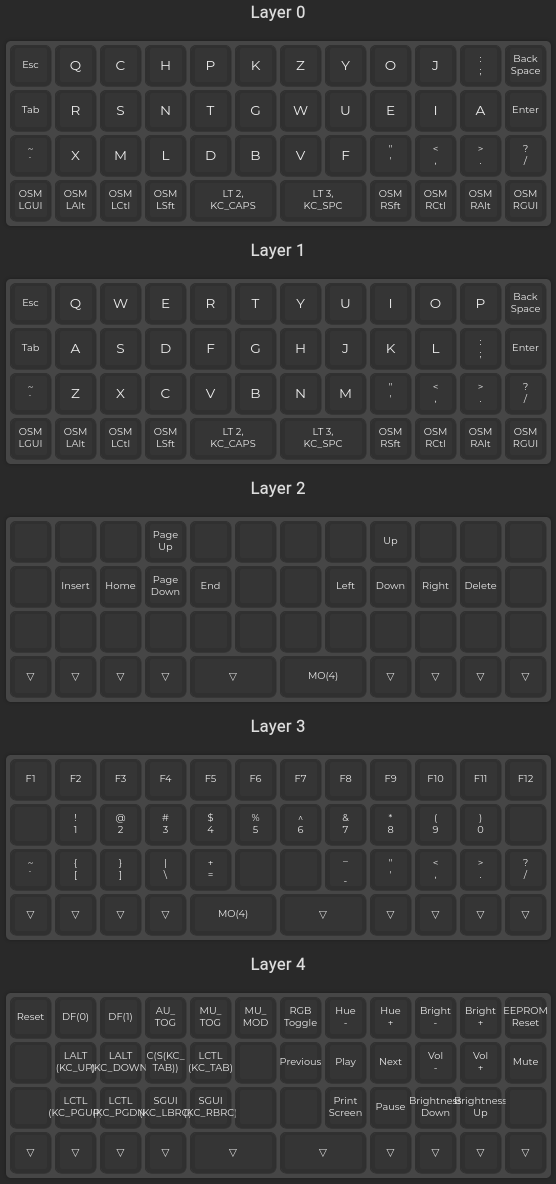
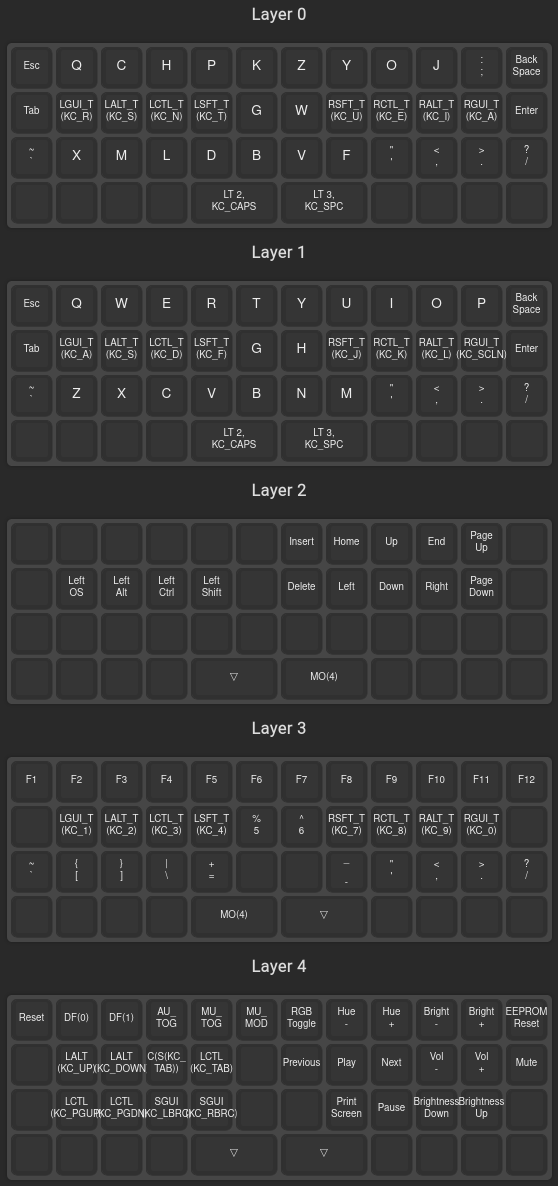
Homerow mods and short layout

diff --git a/keymap.c b/keymap.c
@@ -7,9 +7,9 @@
  */
 
 const uint16_t PROGMEM keymaps[][MATRIX_ROWS][MATRIX_COLS] = {
-	[0] = LAYOUT_planck_2x2u(KC_ESC, KC_Q, KC_C, KC_H, KC_P, KC_K, KC_Z, KC_Y, KC_O, KC_J, KC_SCLN, KC_BSPC, KC_TAB, KC_R, KC_S, KC_N, KC_T, KC_G, KC_W, KC_U, KC_E, KC_I, KC_A, KC_ENT, KC_GRV, KC_X, KC_M, KC_L, KC_D, KC_B, KC_V, KC_F, KC_QUOT, KC_COMM, KC_DOT, KC_SLSH, OSM(MOD_LGUI), OSM(MOD_LALT), OSM(MOD_LCTL), OSM(MOD_LSFT), LT(2,KC_CAPS), LT(3,KC_SPC), OSM(MOD_RSFT), OSM(MOD_RCTL), OSM(MOD_RALT), OSM(MOD_RGUI)),
-	[1] = LAYOUT_planck_2x2u(KC_ESC, KC_Q, KC_W, KC_E, KC_R, KC_T, KC_Y, KC_U, KC_I, KC_O, KC_P, KC_BSPC, KC_TAB, KC_A, KC_S, KC_D, KC_F, KC_G, KC_H, KC_J, KC_K, KC_L, KC_SCLN, KC_ENT, KC_GRV, KC_Z, KC_X, KC_C, KC_V, KC_B, KC_N, KC_M, KC_QUOT, KC_COMM, KC_DOT, KC_SLSH, OSM(MOD_LGUI), OSM(MOD_LALT), OSM(MOD_LCTL), OSM(MOD_LSFT), LT(2,KC_CAPS), LT(3,KC_SPC), OSM(MOD_RSFT), OSM(MOD_RCTL), OSM(MOD_RALT), OSM(MOD_RGUI)),
-	[2] = LAYOUT_planck_2x2u(KC_NO, KC_NO, KC_NO, KC_PGUP, KC_NO, KC_NO, KC_NO, KC_NO, KC_UP, KC_NO, KC_NO, KC_NO, KC_NO, KC_INS, KC_HOME, KC_PGDN, KC_END, KC_NO, KC_NO, KC_LEFT, KC_DOWN, KC_RGHT, KC_DEL, KC_NO, KC_NO, KC_NO, KC_NO, KC_NO, KC_NO, KC_NO, KC_NO, KC_NO, KC_NO, KC_NO, KC_NO, KC_NO, KC_TRNS, KC_TRNS, KC_TRNS, KC_TRNS, KC_TRNS, MO(4), KC_TRNS, KC_TRNS, KC_TRNS, KC_TRNS),
-	[3] = LAYOUT_planck_2x2u(KC_F1, KC_F2, KC_F3, KC_F4, KC_F5, KC_F6, KC_F7, KC_F8, KC_F9, KC_F10, KC_F11, KC_F12, KC_NO, KC_1, KC_2, KC_3, KC_4, KC_5, KC_6, KC_7, KC_8, KC_9, KC_0, KC_NO, KC_GRV, KC_LBRC, KC_RBRC, KC_BSLS, KC_EQL, KC_NO, KC_NO, KC_MINS, KC_QUOT, KC_COMM, KC_DOT, KC_SLSH, KC_TRNS, KC_TRNS, KC_TRNS, KC_TRNS, MO(4), KC_TRNS, KC_TRNS, KC_TRNS, KC_TRNS, KC_TRNS),
-	[4] = LAYOUT_planck_2x2u(RESET, DF(0), DF(1), AU_TOG, MU_TOG, MU_MOD, RGB_TOG, RGB_HUD, RGB_HUI, RGB_VAD, RGB_VAI, EEP_RST, KC_NO, LALT(KC_UP), LALT(KC_DOWN), C(S(KC_TAB)), LCTL(KC_TAB), KC_NO, KC_MPRV, KC_MPLY, KC_MNXT, KC_VOLD, KC_VOLU, KC_MUTE, KC_NO, LCTL(KC_PGUP), LCTL(KC_PGDN), SGUI(KC_LBRC), SGUI(KC_RBRC), KC_NO, KC_NO, KC_PSCR, KC_PAUS, KC_BRID, KC_BRIU, KC_NO, KC_TRNS, KC_TRNS, KC_TRNS, KC_TRNS, KC_TRNS, KC_TRNS, KC_TRNS, KC_TRNS, KC_TRNS, KC_TRNS)
+	[0] = LAYOUT_planck_2x2u(KC_ESC, KC_Q, KC_C, KC_H, KC_P, KC_K, KC_Z, KC_Y, KC_O, KC_J, KC_SCLN, KC_BSPC, KC_TAB, LGUI_T(KC_R), LALT_T(KC_S), LCTL_T(KC_N), LSFT_T(KC_T), KC_G, KC_W, RSFT_T(KC_U), RCTL_T(KC_E), RALT_T(KC_I), RGUI_T(KC_A), KC_ENT, KC_GRV, KC_X, KC_M, KC_L, KC_D, KC_B, KC_V, KC_F, KC_QUOT, KC_COMM, KC_DOT, KC_SLSH, KC_NO, KC_NO, KC_NO, KC_NO, LT(2,KC_CAPS), LT(3,KC_SPC), KC_NO, KC_NO, KC_NO, KC_NO),
+	[1] = LAYOUT_planck_2x2u(KC_ESC, KC_Q, KC_W, KC_E, KC_R, KC_T, KC_Y, KC_U, KC_I, KC_O, KC_P, KC_BSPC, KC_TAB, LGUI_T(KC_A), LALT_T(KC_S), LCTL_T(KC_D), LSFT_T(KC_F), KC_G, KC_H, RSFT_T(KC_J), RCTL_T(KC_K), RALT_T(KC_L), RGUI_T(KC_SCLN), KC_ENT, KC_GRV, KC_Z, KC_X, KC_C, KC_V, KC_B, KC_N, KC_M, KC_QUOT, KC_COMM, KC_DOT, KC_SLSH, KC_NO, KC_NO, KC_NO, KC_NO, LT(2,KC_CAPS), LT(3,KC_SPC), KC_NO, KC_NO, KC_NO, KC_NO),
+	[2] = LAYOUT_planck_2x2u(KC_NO, KC_NO, KC_NO, KC_NO, KC_NO, KC_NO, KC_INS, KC_HOME, KC_UP, KC_END, KC_PGUP, KC_NO, KC_NO, KC_LGUI, KC_LALT, KC_LCTL, KC_LSFT, KC_NO, KC_DEL, KC_LEFT, KC_DOWN, KC_RGHT, KC_PGDN, KC_NO, KC_NO, KC_NO, KC_NO, KC_NO, KC_NO, KC_NO, KC_NO, KC_NO, KC_NO, KC_NO, KC_NO, KC_NO, KC_NO, KC_NO, KC_NO, KC_NO, KC_TRNS, MO(4), KC_NO, KC_NO, KC_NO, KC_NO),
+	[3] = LAYOUT_planck_2x2u(KC_F1, KC_F2, KC_F3, KC_F4, KC_F5, KC_F6, KC_F7, KC_F8, KC_F9, KC_F10, KC_F11, KC_F12, KC_NO, LGUI_T(KC_1), LALT_T(KC_2), LCTL_T(KC_3), LSFT_T(KC_4), KC_5, KC_6, RSFT_T(KC_7), RCTL_T(KC_8), RALT_T(KC_9), RGUI_T(KC_0), KC_NO, KC_GRV, KC_LBRC, KC_RBRC, KC_BSLS, KC_EQL, KC_NO, KC_NO, KC_MINS, KC_QUOT, KC_COMM, KC_DOT, KC_SLSH, KC_NO, KC_NO, KC_NO, KC_NO, MO(4), KC_TRNS, KC_NO, KC_NO, KC_NO, KC_NO),
+	[4] = LAYOUT_planck_2x2u(RESET, DF(0), DF(1), AU_TOG, MU_TOG, MU_MOD, RGB_TOG, RGB_HUD, RGB_HUI, RGB_VAD, RGB_VAI, EEP_RST, KC_NO, LALT(KC_UP), LALT(KC_DOWN), C(S(KC_TAB)), LCTL(KC_TAB), KC_NO, KC_MPRV, KC_MPLY, KC_MNXT, KC_VOLD, KC_VOLU, KC_MUTE, KC_NO, LCTL(KC_PGUP), LCTL(KC_PGDN), SGUI(KC_LBRC), SGUI(KC_RBRC), KC_NO, KC_NO, KC_PSCR, KC_PAUS, KC_BRID, KC_BRIU, KC_NO, KC_NO, KC_NO, KC_NO, KC_NO, KC_TRNS, KC_TRNS, KC_NO, KC_NO, KC_NO, KC_NO)
 };

diff --git a/config.h b/config.h
@@ -2,9 +2,6 @@
  * Tap options
  */
 #define TAPPING_TERM 200
-// #define IGNORE_MOD_TAP_INTERRUPT
-// #define PERMISSIVE_HOLD
-// #define TAPPING_FORCE_HOLD // Incompatible with oneshot toggle
-
-#define ONESHOT_TAP_TOGGLE 2
-#define ONESHOT_TIMEOUT 2000
+#define IGNORE_MOD_TAP_INTERRUPT
+#define PERMISSIVE_HOLD
+#define TAPPING_FORCE_HOLD // Incompatible with oneshot toggle
